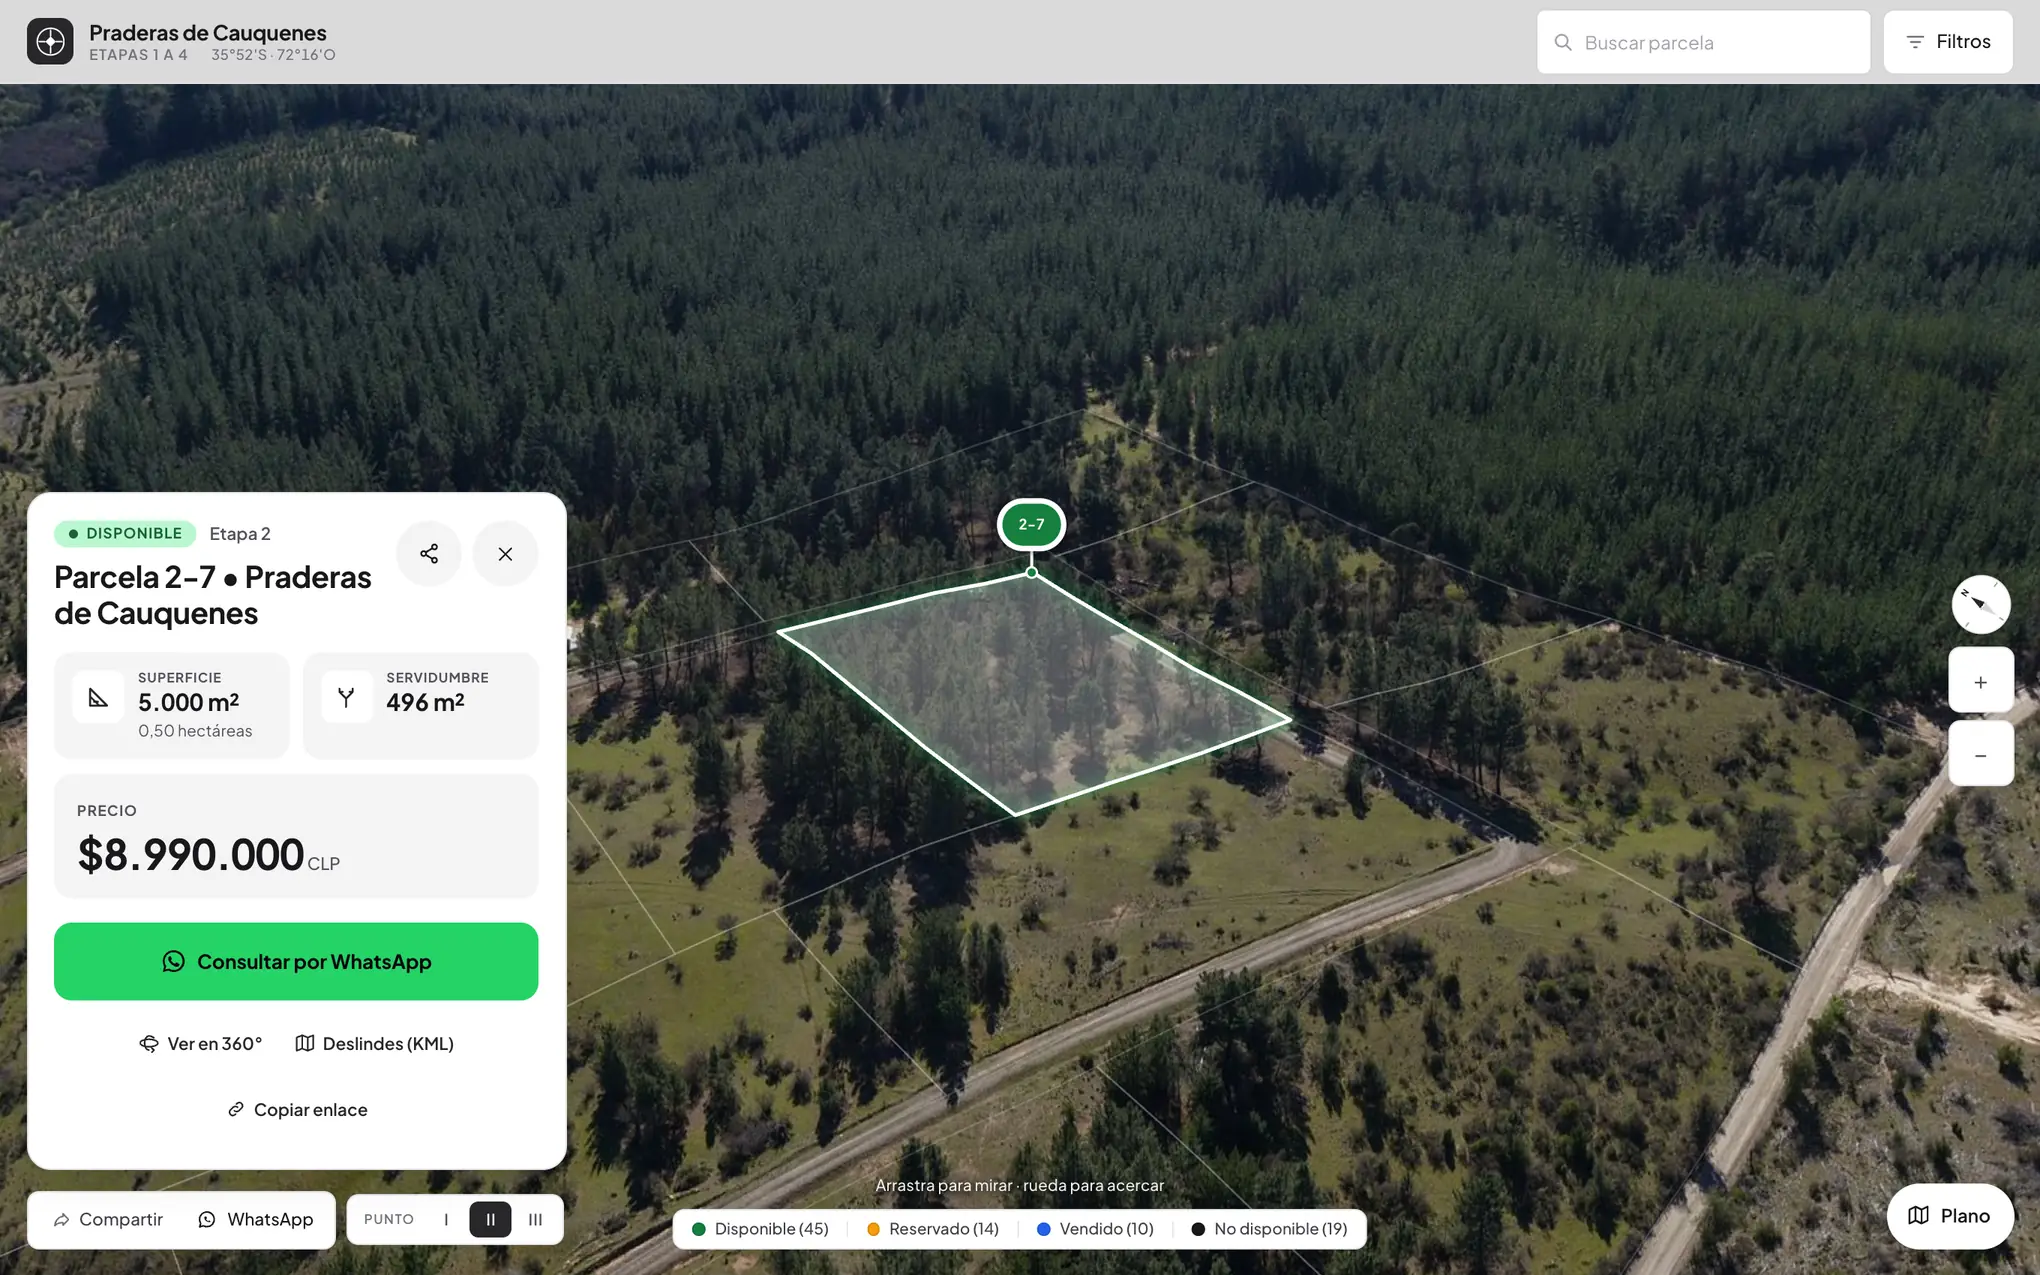
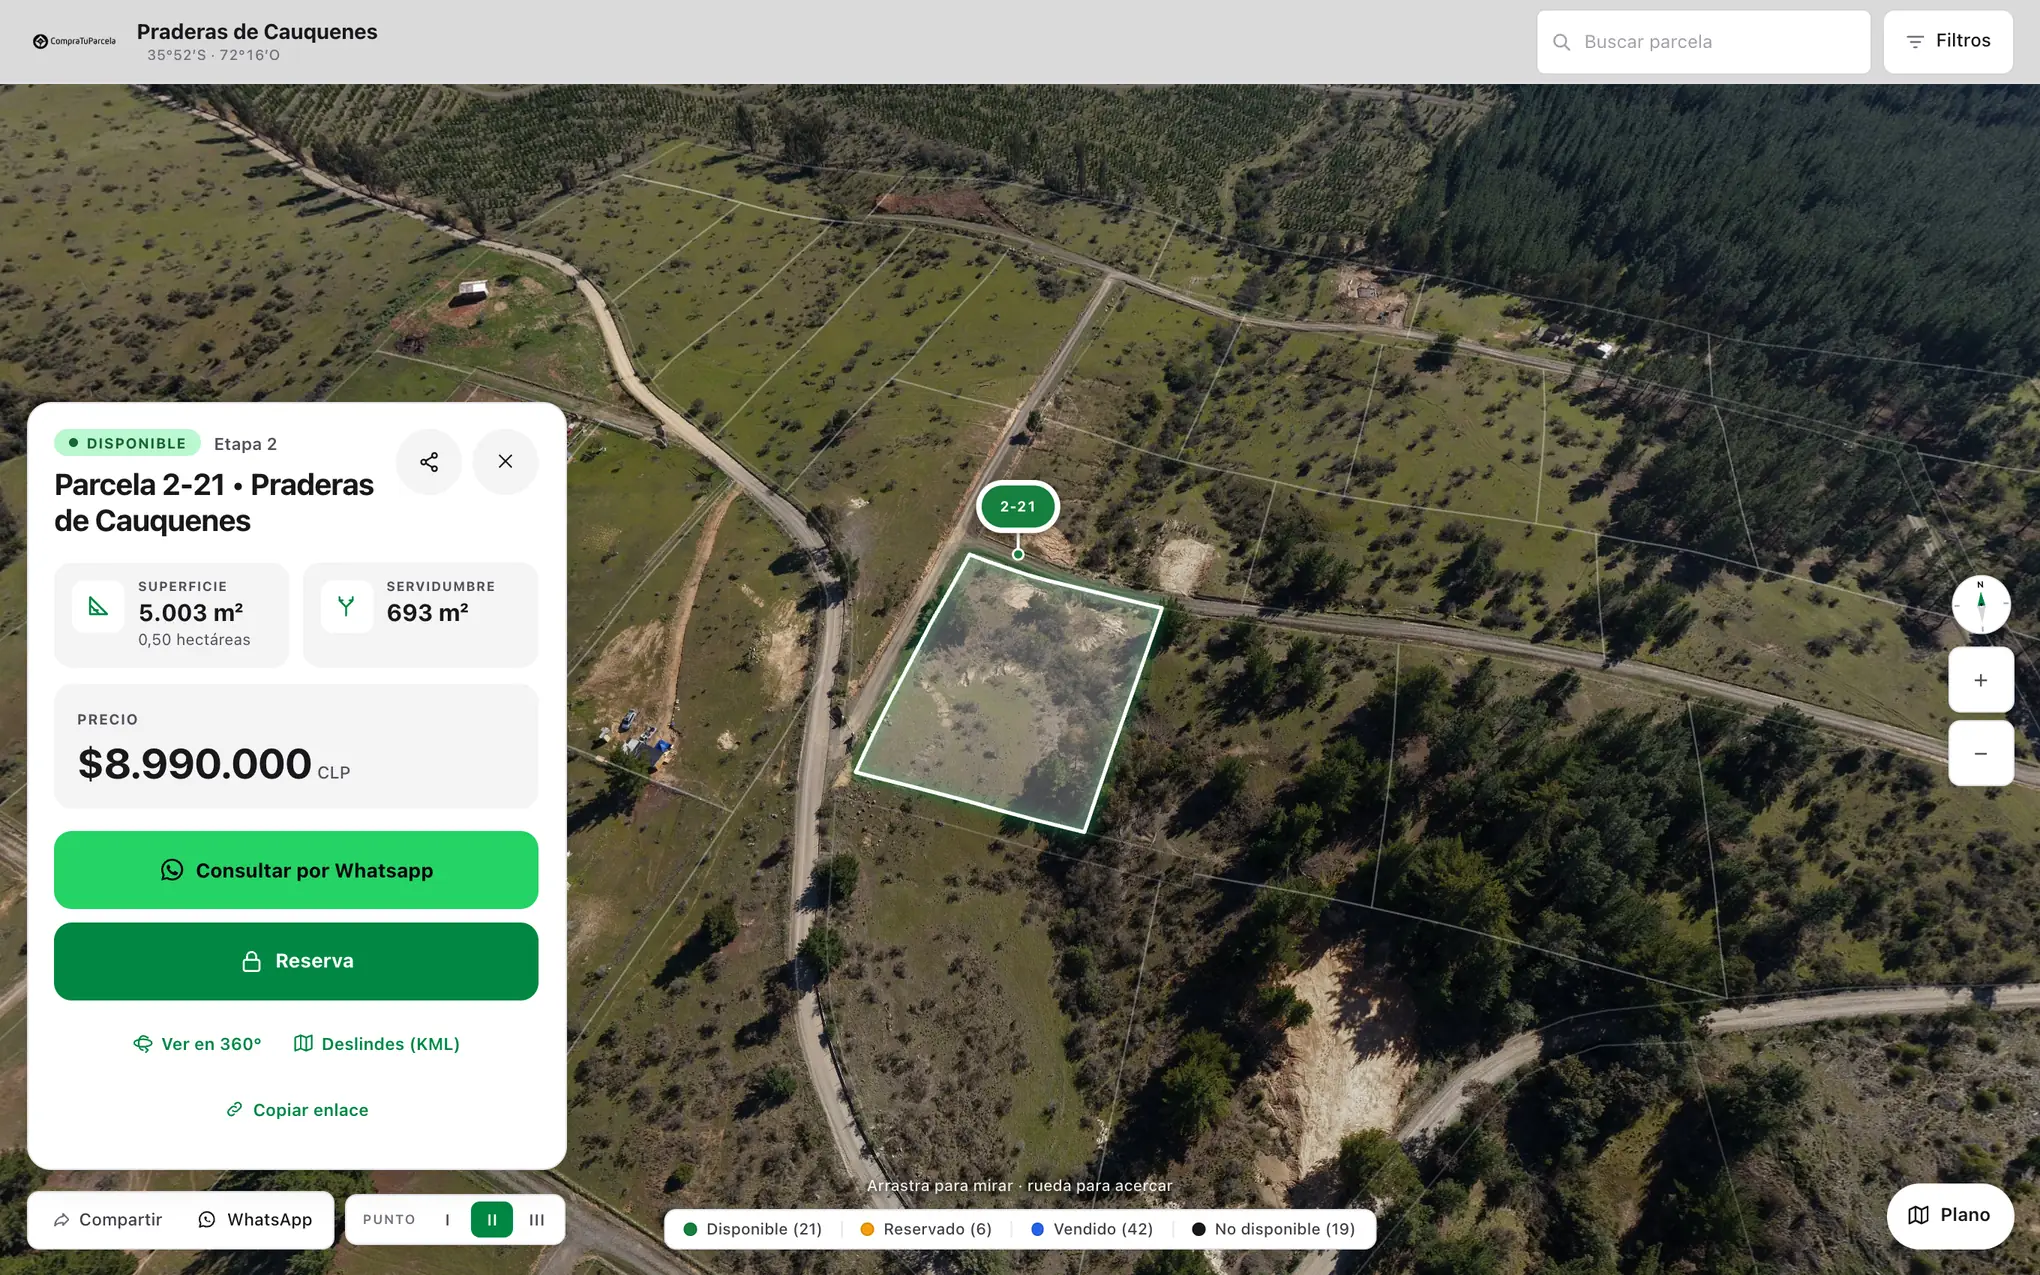
fix: la landing abre con la parcela 2-21, que está disponible
La 2-7 se vendió y la landing abría mostrándola como vendida. Cambia el
iframe, las tarjetas flotantes, el mensaje de WhatsApp y las capturas (del
sitio publicado). Una prueba vigila que el iframe y las tarjetas hablen de
la misma parcela.

diff --git a/landing/index.html b/landing/index.html
@@ -590,21 +590,21 @@ h1 {
         <!-- Praderas publicado, en vivo. Se puede porque el visor deja que lo inserte
              tumasterplan.cl (frame-ancestors en web/vercel.json) y, adentro de un
              iframe, la rueda y el dedo siguen bajando por esta página (insertado.js). -->
-        <iframe src="https://masterplan-praderas-de-cauquenes.vercel.app/?lote=2-7" loading="lazy"
+        <iframe src="https://masterplan-praderas-de-cauquenes.vercel.app/?lote=2-21" loading="lazy"
                 title="Praderas de Cauquenes en vivo: se puede girar la vista, acercarse y elegir parcelas"></iframe>
       </div>
     </div>
 
     <div class="flotante flotante--ficha" aria-hidden="true">
       <span class="insignia">Disponible</span>
-      <span class="ficha__nombre">Parcela 2-7</span>
-      <span class="ficha__datos">5.000 m² · $8.990.000</span>
+      <span class="ficha__nombre">Parcela 2-21</span>
+      <span class="ficha__datos">5.003 m² · $8.990.000</span>
     </div>
     <div class="flotante flotante--mensaje" aria-hidden="true">
       <span class="mensaje__icono">
         <svg viewBox="0 0 20 20"><path d="M3 17l1-3.4A7 7 0 1 1 6.6 16L3 17Z" fill="none" stroke="currentColor" stroke-width="1.6" stroke-linejoin="round"/></svg>
       </span>
-      <span class="mensaje__texto"><b>Mensaje a tu vendedor</b>«Hola, vengo del Masterplan de Praderas de Cauquenes. Me interesa la parcela 2-7»</span>
+      <span class="mensaje__texto"><b>Mensaje a tu vendedor</b>«Hola, vengo del Masterplan de Praderas de Cauquenes. Me interesa la parcela 2-21»</span>
     </div>
   </div>
   <p class="producto__pie ancho">
@@ -633,7 +633,7 @@ h1 {
             </span>
           </div>
           <img src="/producto-movil.webp" width="600" height="1221" loading="lazy" decoding="async"
-               alt="El visor en un iPhone: la parcela 2-7 sobre la foto aérea y su ficha con superficie, precio y el botón de WhatsApp.">
+               alt="El visor en un iPhone: la parcela 2-21 sobre la foto aérea y su ficha con superficie, precio y el botón de WhatsApp.">
           <span class="iphone__inicio" aria-hidden="true"></span>
         </div>
       </figure>

diff --git a/pipeline/tests/test_landing.py b/pipeline/tests/test_landing.py
@@ -35,3 +35,11 @@ def test_cada_iframe_de_la_landing_esta_permitido_por_su_politica():
 def test_la_landing_sigue_sin_javascript():
     assert _politica_de_la_landing()["script-src"] == ["'none'"]
     assert "<script" not in (LANDING / "index.html").read_text()
+
+
+def test_el_iframe_y_las_tarjetas_hablan_de_la_misma_parcela():
+    """Cuando se vende la parcela de muestra se cambia en varios lugares: que no quede uno atrás."""
+    html = (LANDING / "index.html").read_text()
+    lote = re.search(r'<iframe[^>]*\ssrc="[^"]*[?&]lote=([^"&]+)"', html).group(1)
+    assert re.search(rf'class="ficha__nombre">Parcela {re.escape(lote)}<', html), lote
+    assert f"Me interesa la parcela {lote}»" in html, lote

diff --git a/README.md b/README.md
@@ -203,12 +203,15 @@ visor deja que lo inserte tumasterplan.cl (`frame-ancestors` en `web/vercel.json
 Dentro de un iframe el visor no se adueña del scroll: la rueda sola y el dedo que baja
 siguen bajando por la página, y se acerca con Ctrl/⌘ + rueda (`web/js/insertado.js`).
 
-Las capturas de `producto*.webp` (la de escritorio queda debajo del iframe mientras carga) son del visor real, tomadas con Chrome headless y
-`--use-angle=swiftshader` —sin eso no hay WebGL y la panorámica sale negra—: un sitio
-construido de Praderas con el `web/` actual encima, la parcela 2-7 abierta
-(`?lote=2-7`) y la cámara un paso más lejos. Llevan un WhatsApp de ejemplo porque el
-botón de contacto solo se dibuja cuando el loteo tiene número. La del teléfono se
-captura a 393 × 800 (el iPhone que la enmarca está dibujado en CSS).
+Las capturas de `producto*.webp` (la de escritorio queda debajo del iframe mientras
+carga; la del teléfono va dentro del iPhone dibujado en CSS) son de Praderas publicado,
+tomadas con Chrome headless y `--use-angle=swiftshader` —sin eso no hay WebGL y la
+panorámica sale negra—, con una parcela disponible abierta y la cámara un paso más
+lejos. La del teléfono se captura a 393 × 800.
+
+La parcela es la misma en el iframe (`?lote=`), en las dos tarjetas flotantes y en las
+capturas; hoy es la 2-21. **Si se vende, hay que cambiarla en los cuatro lugares**, o la
+landing abre mostrando una parcela vendida.
 
 Las de `paso-*.webp` muestran cada paso de «Cómo funciona»: el plano dibujado desde
 `parcelas.json`, una panorámica cruda, el control de calce y pantallas de la consola
